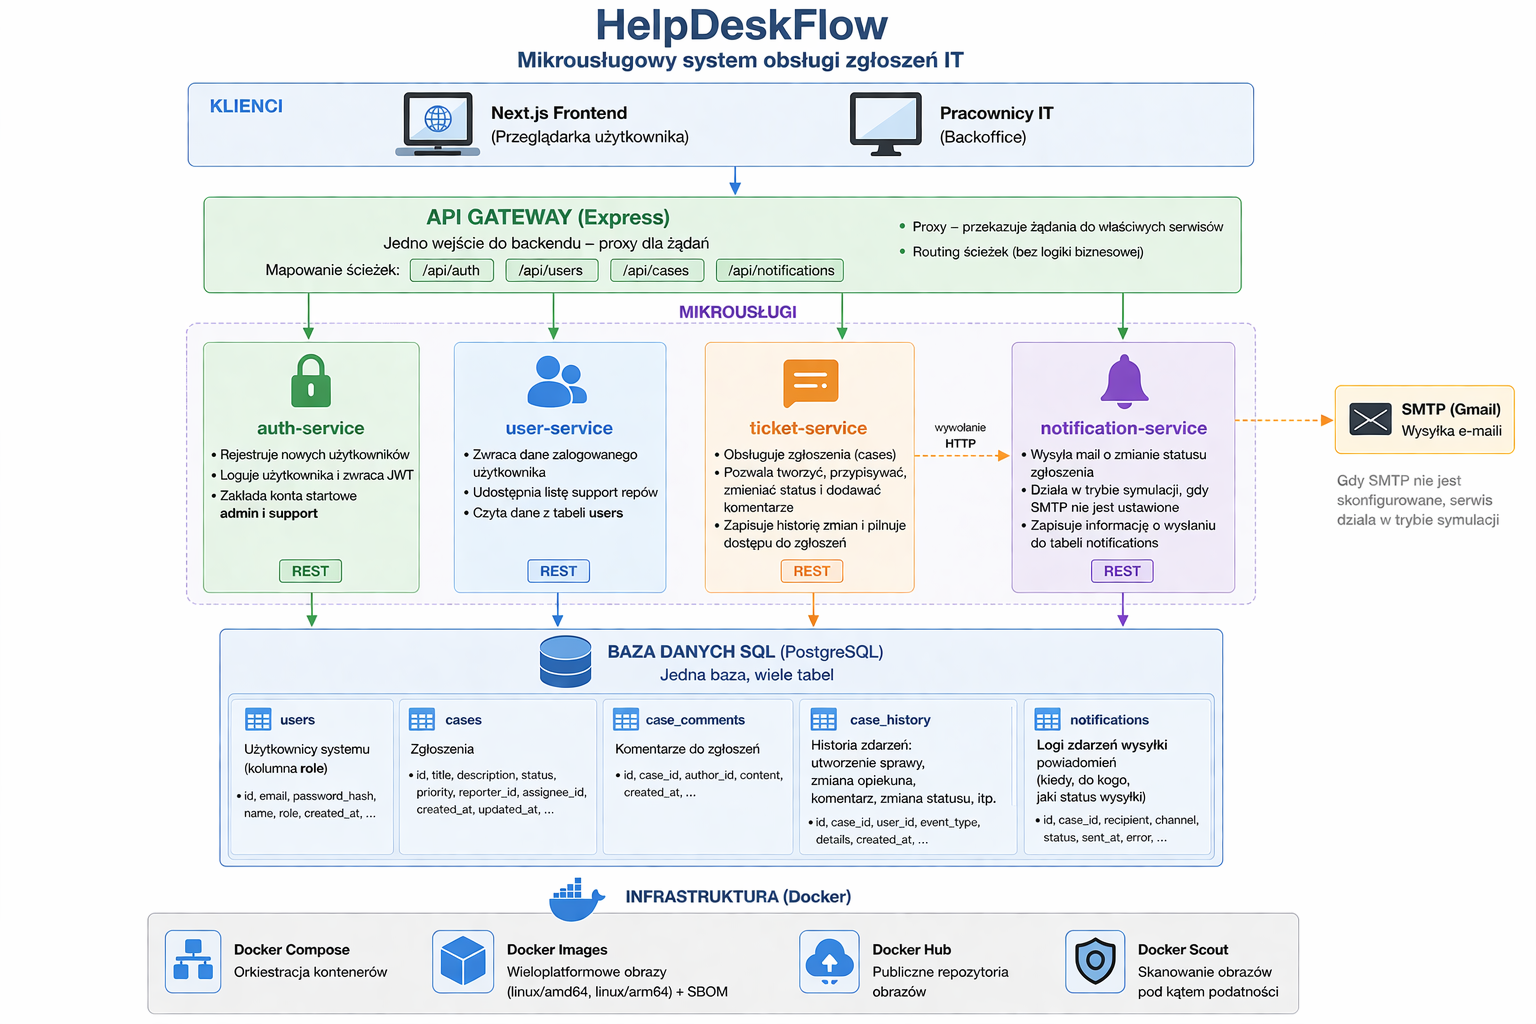
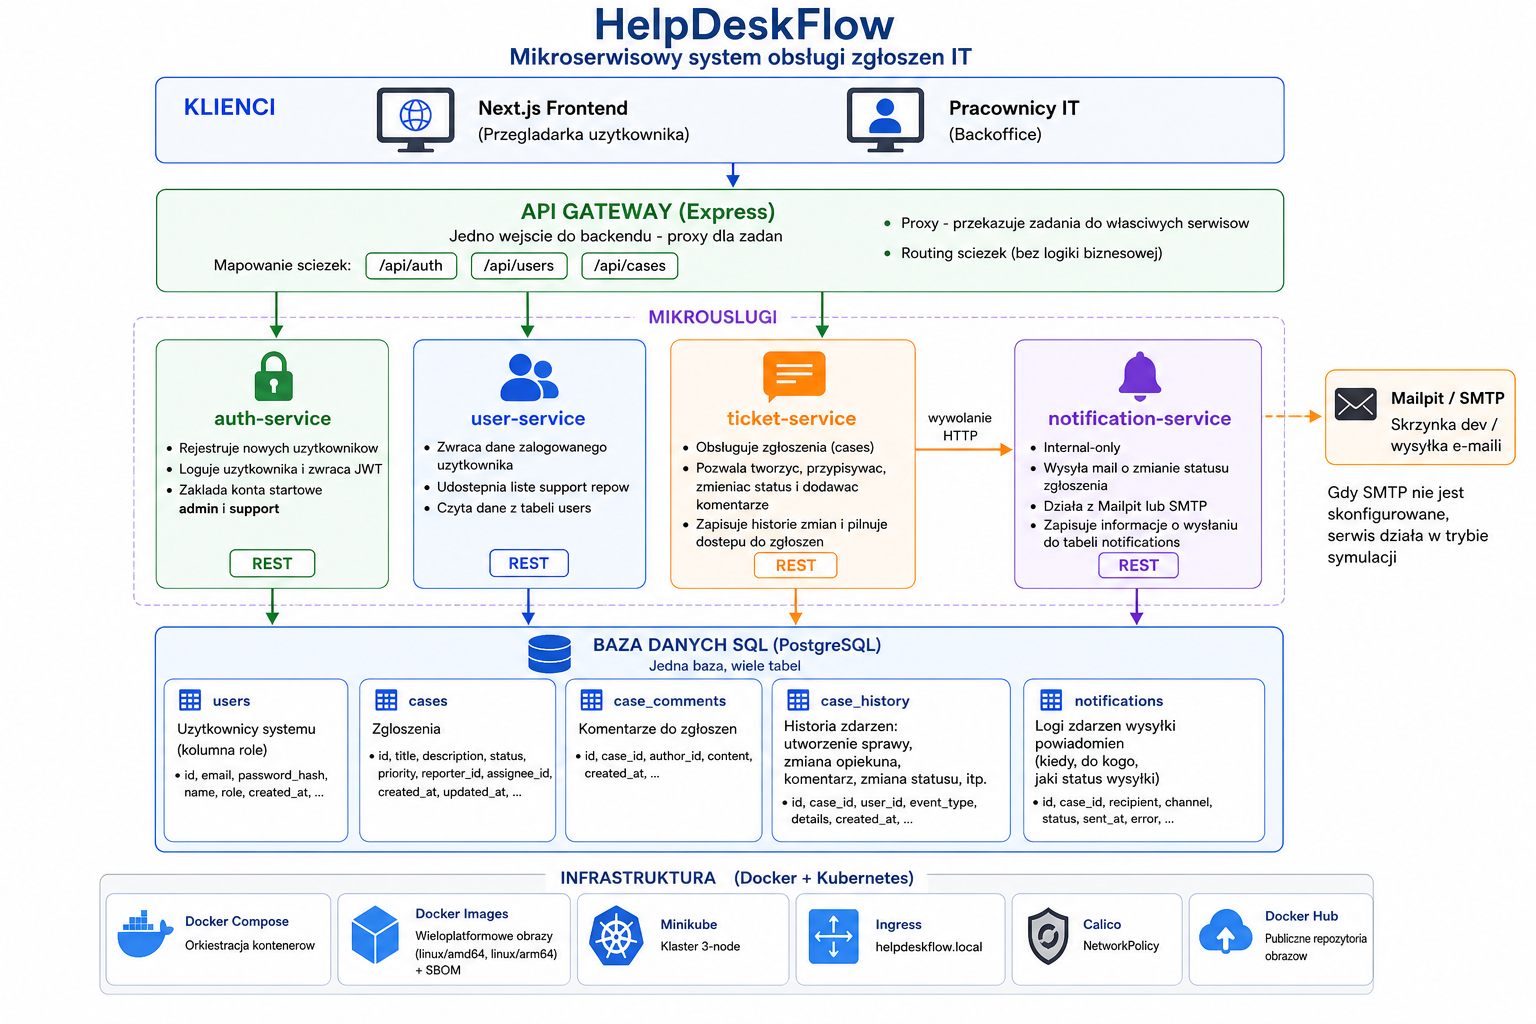
Update project documentation and architecture diagrams

Changed region(s): [[0.0625, 0.0, 1.0, 1.0]]

diff --git a/README.md b/README.md
@@ -2,13 +2,14 @@
 
 ## Project Links
 
-- GitHub repository: [SiKret100/HelpDeskFlow](https://github.com/SiKret100/HelpDeskFlow)
-- Docker Hub - frontend: [dawidrut01/helpdeskflow-frontend](https://hub.docker.com/r/dawidrut01/helpdeskflow-frontend)
-- Docker Hub - API Gateway: [dawidrut01/helpdeskflow-api-gateway](https://hub.docker.com/r/dawidrut01/helpdeskflow-api-gateway)
-- Docker Hub - Auth Service: [dawidrut01/helpdeskflow-auth-service](https://hub.docker.com/r/dawidrut01/helpdeskflow-auth-service)
-- Docker Hub - User Service: [dawidrut01/helpdeskflow-user-service](https://hub.docker.com/r/dawidrut01/helpdeskflow-user-service)
-- Docker Hub - Ticket Service: [dawidrut01/helpdeskflow-ticket-service](https://hub.docker.com/r/dawidrut01/helpdeskflow-ticket-service)
-- Docker Hub - Notification Service: [dawidrut01/helpdeskflow-notification-service](https://hub.docker.com/r/dawidrut01/helpdeskflow-notification-service)
+- GitHub repository: [rafals123/HelpDeskFlow-k8s](https://github.com/rafals123/HelpDeskFlow-k8s)
+- Docker Hub - frontend: [rafals12390/helpdeskflow-frontend](https://hub.docker.com/r/rafals12390/helpdeskflow-frontend)
+- Docker Hub - API Gateway: [rafals12390/helpdeskflow-api-gateway](https://hub.docker.com/r/rafals12390/helpdeskflow-api-gateway)
+- Docker Hub - Auth Service: [rafals12390/helpdeskflow-auth-service](https://hub.docker.com/r/rafals12390/helpdeskflow-auth-service)
+- Docker Hub - User Service: [rafals12390/helpdeskflow-user-service](https://hub.docker.com/r/rafals12390/helpdeskflow-user-service)
+- Docker Hub - Ticket Service: [rafals12390/helpdeskflow-ticket-service](https://hub.docker.com/r/rafals12390/helpdeskflow-ticket-service)
+- Docker Hub - Notification Service: [rafals12390/helpdeskflow-notification-service](https://hub.docker.com/r/rafals12390/helpdeskflow-notification-service)
+- Docker Hub - Database: [rafals12390/helpdeskflow-db](https://hub.docker.com/r/rafals12390/helpdeskflow-db)
 
 ## Overview
 
@@ -23,29 +24,30 @@ The application is containerized with Docker Compose and uses a shared PostgreSQ
 ![Microservices architecture generated with compose-viz](./image_doc/compose-viz.png)
 
 - [Frontend](./frontend): Next.js user interface available on `http://localhost:3000`.
-- [API Gateway](./services/api-gateway): Express-based entry point that proxies requests to `/api/auth`, `/api/users`, `/api/cases`, and `/api/notifications`.
+- [API Gateway](./services/api-gateway): Express-based entry point that proxies requests to `/api/auth`, `/api/users`, and `/api/cases`.
 - [Auth Service](./services/auth-service): Registers users, verifies credentials, issues JWT tokens, and seeds default `admin` and `support` accounts.
 - [User Service](./services/user-service): Returns the current user profile and exposes the list of support representatives.
 - [Ticket Service](./services/ticket-service): Handles support cases, comments, assignee changes, status changes, and case history.
-- [Notification Service](./services/notification-service): Sends status change emails through Gmail SMTP or works in simulation mode if SMTP is not configured. The current SMTP integration is a temporary solution for this stage of the project and is not the final version of the notification connection.
+- [Notification Service](./services/notification-service): Internal-only service triggered by `ticket-service`. It sends status change emails through configurable SMTP or works in simulation mode if SMTP is not configured.
 - **Database (PostgreSQL)**: Shared SQL database storing `users`, `cases`, `case_comments`, `case_history`, and `notifications`.
 - [Database Image](./infra/db/Dockerfile): Local hardened Postgres image used by Docker Compose; it keeps the official init flow and replaces the vulnerable `gosu` helper with `su-exec`.
-- **Gmail SMTP**: External mail provider used by the Notification Service for real email delivery.
+- **Mailpit**: Local SMTP inbox used to test outgoing emails in development.
 
-All application services have custom Dockerfiles, and the final images were published to Docker Hub under the `dawidrut01` namespace. The submission tag is `v0.1.2`, and the images support both `linux/amd64` and `linux/arm64` with SBOM attestation generated by `buildx`. The database is built locally by Docker Compose from [infra/db/Dockerfile](./infra/db/Dockerfile).
+All application services have custom Dockerfiles, and the current images were published to Docker Hub under the `rafals12390` namespace. The application images use the `v0.2.0` release line, while the frontend uses `v0.2.1` for the Kubernetes ingress build. The images support both `linux/amd64` and `linux/arm64` with SBOM attestation generated by `buildx`.
 
 ## Docker Image Security
 
-The final public images used for submission are:
+The current public images used for the project are:
 
-- `dawidrut01/helpdeskflow-frontend:v0.1.2`
-- `dawidrut01/helpdeskflow-api-gateway:v0.1.2`
-- `dawidrut01/helpdeskflow-auth-service:v0.1.2`
-- `dawidrut01/helpdeskflow-user-service:v0.1.2`
-- `dawidrut01/helpdeskflow-ticket-service:v0.1.2`
-- `dawidrut01/helpdeskflow-notification-service:v0.1.2`
+- `rafals12390/helpdeskflow-frontend:v0.2.1`
+- `rafals12390/helpdeskflow-api-gateway:v0.2.0`
+- `rafals12390/helpdeskflow-auth-service:v0.2.0`
+- `rafals12390/helpdeskflow-user-service:v0.2.0`
+- `rafals12390/helpdeskflow-ticket-service:v0.2.0`
+- `rafals12390/helpdeskflow-notification-service:v0.2.0`
+- `rafals12390/helpdeskflow-db:v0.2.0`
 
-According to the final Docker Scout verification, every image in the `v0.1.2` set reports `0C 0H`. The full verification log is available in [docs/docker-scout-report.md](./docs/docker-scout-report.md).
+According to the final Docker Scout verification prepared for the first project stage, every image in the `v0.1.2` set reports `0C 0H`.
 
 To reach this state, the final runtime images were pinned to `node:22.22.2-alpine`, unnecessary package manager binaries were removed from the runtime layers, and the frontend was converted to a static export served by a lightweight static server.
 
@@ -55,37 +57,37 @@ The PostgreSQL image needed an extra hardening step. The upstream `postgres:17-a
 
 ![Docker Scout scanning results for frontend](./image_doc/frontend.png)
 
-`dawidrut01/helpdeskflow-frontend:v0.1.2` reports `No vulnerable package detected`.
+`rafals12390/helpdeskflow-frontend:v0.2.1` reports `No vulnerable package detected`.
 
 ### Safety of API Gateway image
 
 ![Docker Scout scanning results for API Gateway](./image_doc/api_gateway.png)
 
-`dawidrut01/helpdeskflow-api-gateway:v0.1.2` reports `No vulnerable package detected`.
+`rafals12390/helpdeskflow-api-gateway:v0.2.0` reports `No vulnerable package detected`.
 
 ### Safety of Auth Service image
 
 ![Docker Scout scanning results for Auth Service](./image_doc/auth_service.png)
 
-`dawidrut01/helpdeskflow-auth-service:v0.1.2` reports `No vulnerable package detected`.
+`rafals12390/helpdeskflow-auth-service:v0.2.0` reports `No vulnerable package detected`.
 
 ### Safety of User Service image
 
 ![Docker Scout scanning results for User Service](./image_doc/user_service.png)
 
-`dawidrut01/helpdeskflow-user-service:v0.1.2` reports `No vulnerable package detected`.
+`rafals12390/helpdeskflow-user-service:v0.2.0` reports `No vulnerable package detected`.
 
 ### Safety of Ticket Service image
 
 ![Docker Scout scanning results for Ticket Service](./image_doc/ticker_service.png)
 
-`dawidrut01/helpdeskflow-ticket-service:v0.1.2` reports `No vulnerable package detected`.
+`rafals12390/helpdeskflow-ticket-service:v0.2.0` reports `No vulnerable package detected`.
 
 ### Safety of Notification Service image
 
 ![Docker Scout scanning results for Notification Service](./image_doc/notofication_service.png)
 
-`dawidrut01/helpdeskflow-notification-service:v0.1.2` reports `No vulnerable package detected`.
+`rafals12390/helpdeskflow-notification-service:v0.2.0` reports `No vulnerable package detected`.
 
 ### Safety of Database image
 
@@ -105,8 +107,8 @@ To get started with the project, follow the steps below:
 1. Clone the repository:
 
    ```bash
-   git clone https://github.com/SiKret100/HelpDeskFlow.git
-   cd HelpDeskFlow
+   git clone https://github.com/rafals123/HelpDeskFlow-k8s.git
+   cd HelpDeskFlow-k8s
    ```
 
 2. Create the required environment files:
@@ -116,16 +118,25 @@ To get started with the project, follow the steps below:
    cp frontend/.env.local.example frontend/.env.local
    ```
 
-3. If you want to send real emails from Gmail, fill in the SMTP settings in `.env`:
+3. By default Docker Compose wires `notification-service` to Mailpit. After startup:
+
+   - SMTP endpoint inside Compose: `mailpit:1025`
+   - Mailpit web inbox: `http://localhost:8025`
+
+   If you want to switch to simulation mode or real SMTP, adjust `.env`:
 
    ```env
-   SMTP_USER=[email redacted]
-   SMTP_PASS=your-gmail-app-password
-   SMTP_FROM=HelpDeskFlow <[email redacted]>
+   INTERNAL_SERVICE_TOKEN=change-me-internal-token
+   NOTIFICATION_MODE=smtp
+   SMTP_HOST=mailpit
+   SMTP_PORT=1025
+   SMTP_SECURE=false
+   SMTP_FROM=HelpDeskFlow <[email redacted]>
+   SMTP_USER=
+   SMTP_PASS=
    ```
 
-   If SMTP is not configured, `notification-service` will still work in simulation mode and will save delivery events in the `notifications` table.
-   The current SMTP connection is not the final version and will be further integrated and refined in the next part of the project.
+   For simulation, set `NOTIFICATION_MODE=simulation`. For real SMTP, keep `NOTIFICATION_MODE=smtp` and replace `SMTP_HOST`, `SMTP_PORT`, and optional auth fields. If you run `notification-service` outside Docker Compose, use `SMTP_HOST=localhost` instead of `mailpit`.
 
 4. Install dependencies:
 
@@ -146,8 +157,8 @@ To get started with the project, follow the steps below:
    - auth-service: `http://localhost:4001`
    - user-service: `http://localhost:4002`
    - ticket-service: `http://localhost:4003`
-   - notification-service: `http://localhost:4004`
    - PostgreSQL on the host: `localhost:5434`
+   - Mailpit inbox: `http://localhost:8025`
 
 ## Default Accounts
 
@@ -178,13 +189,9 @@ For local development outside Docker:
 npm run dev
 ```
 
+`notification-service` is no longer exposed through the public gateway. It is called internally by `ticket-service` with a shared internal token.
+
 ## Additional Documentation
 
 - [docker-compose.yml](./docker-compose.yml)
-- [docs/credentials.md](./docs/credentials.md)
-- [docs/docker-scout-report.md](./docs/docker-scout-report.md)
-- [docs/dockerhub-guide.md](./docs/dockerhub-guide.md)
-- [docs/manual-dockerhub-sbom-guide.md](./docs/manual-dockerhub-sbom-guide.md)
-- [docs/compose-viz.svg](./docs/compose-viz.svg)
-- [docs/compose-viz.png](./docs/compose-viz.png)
 - [infra/db/Dockerfile](./infra/db/Dockerfile)